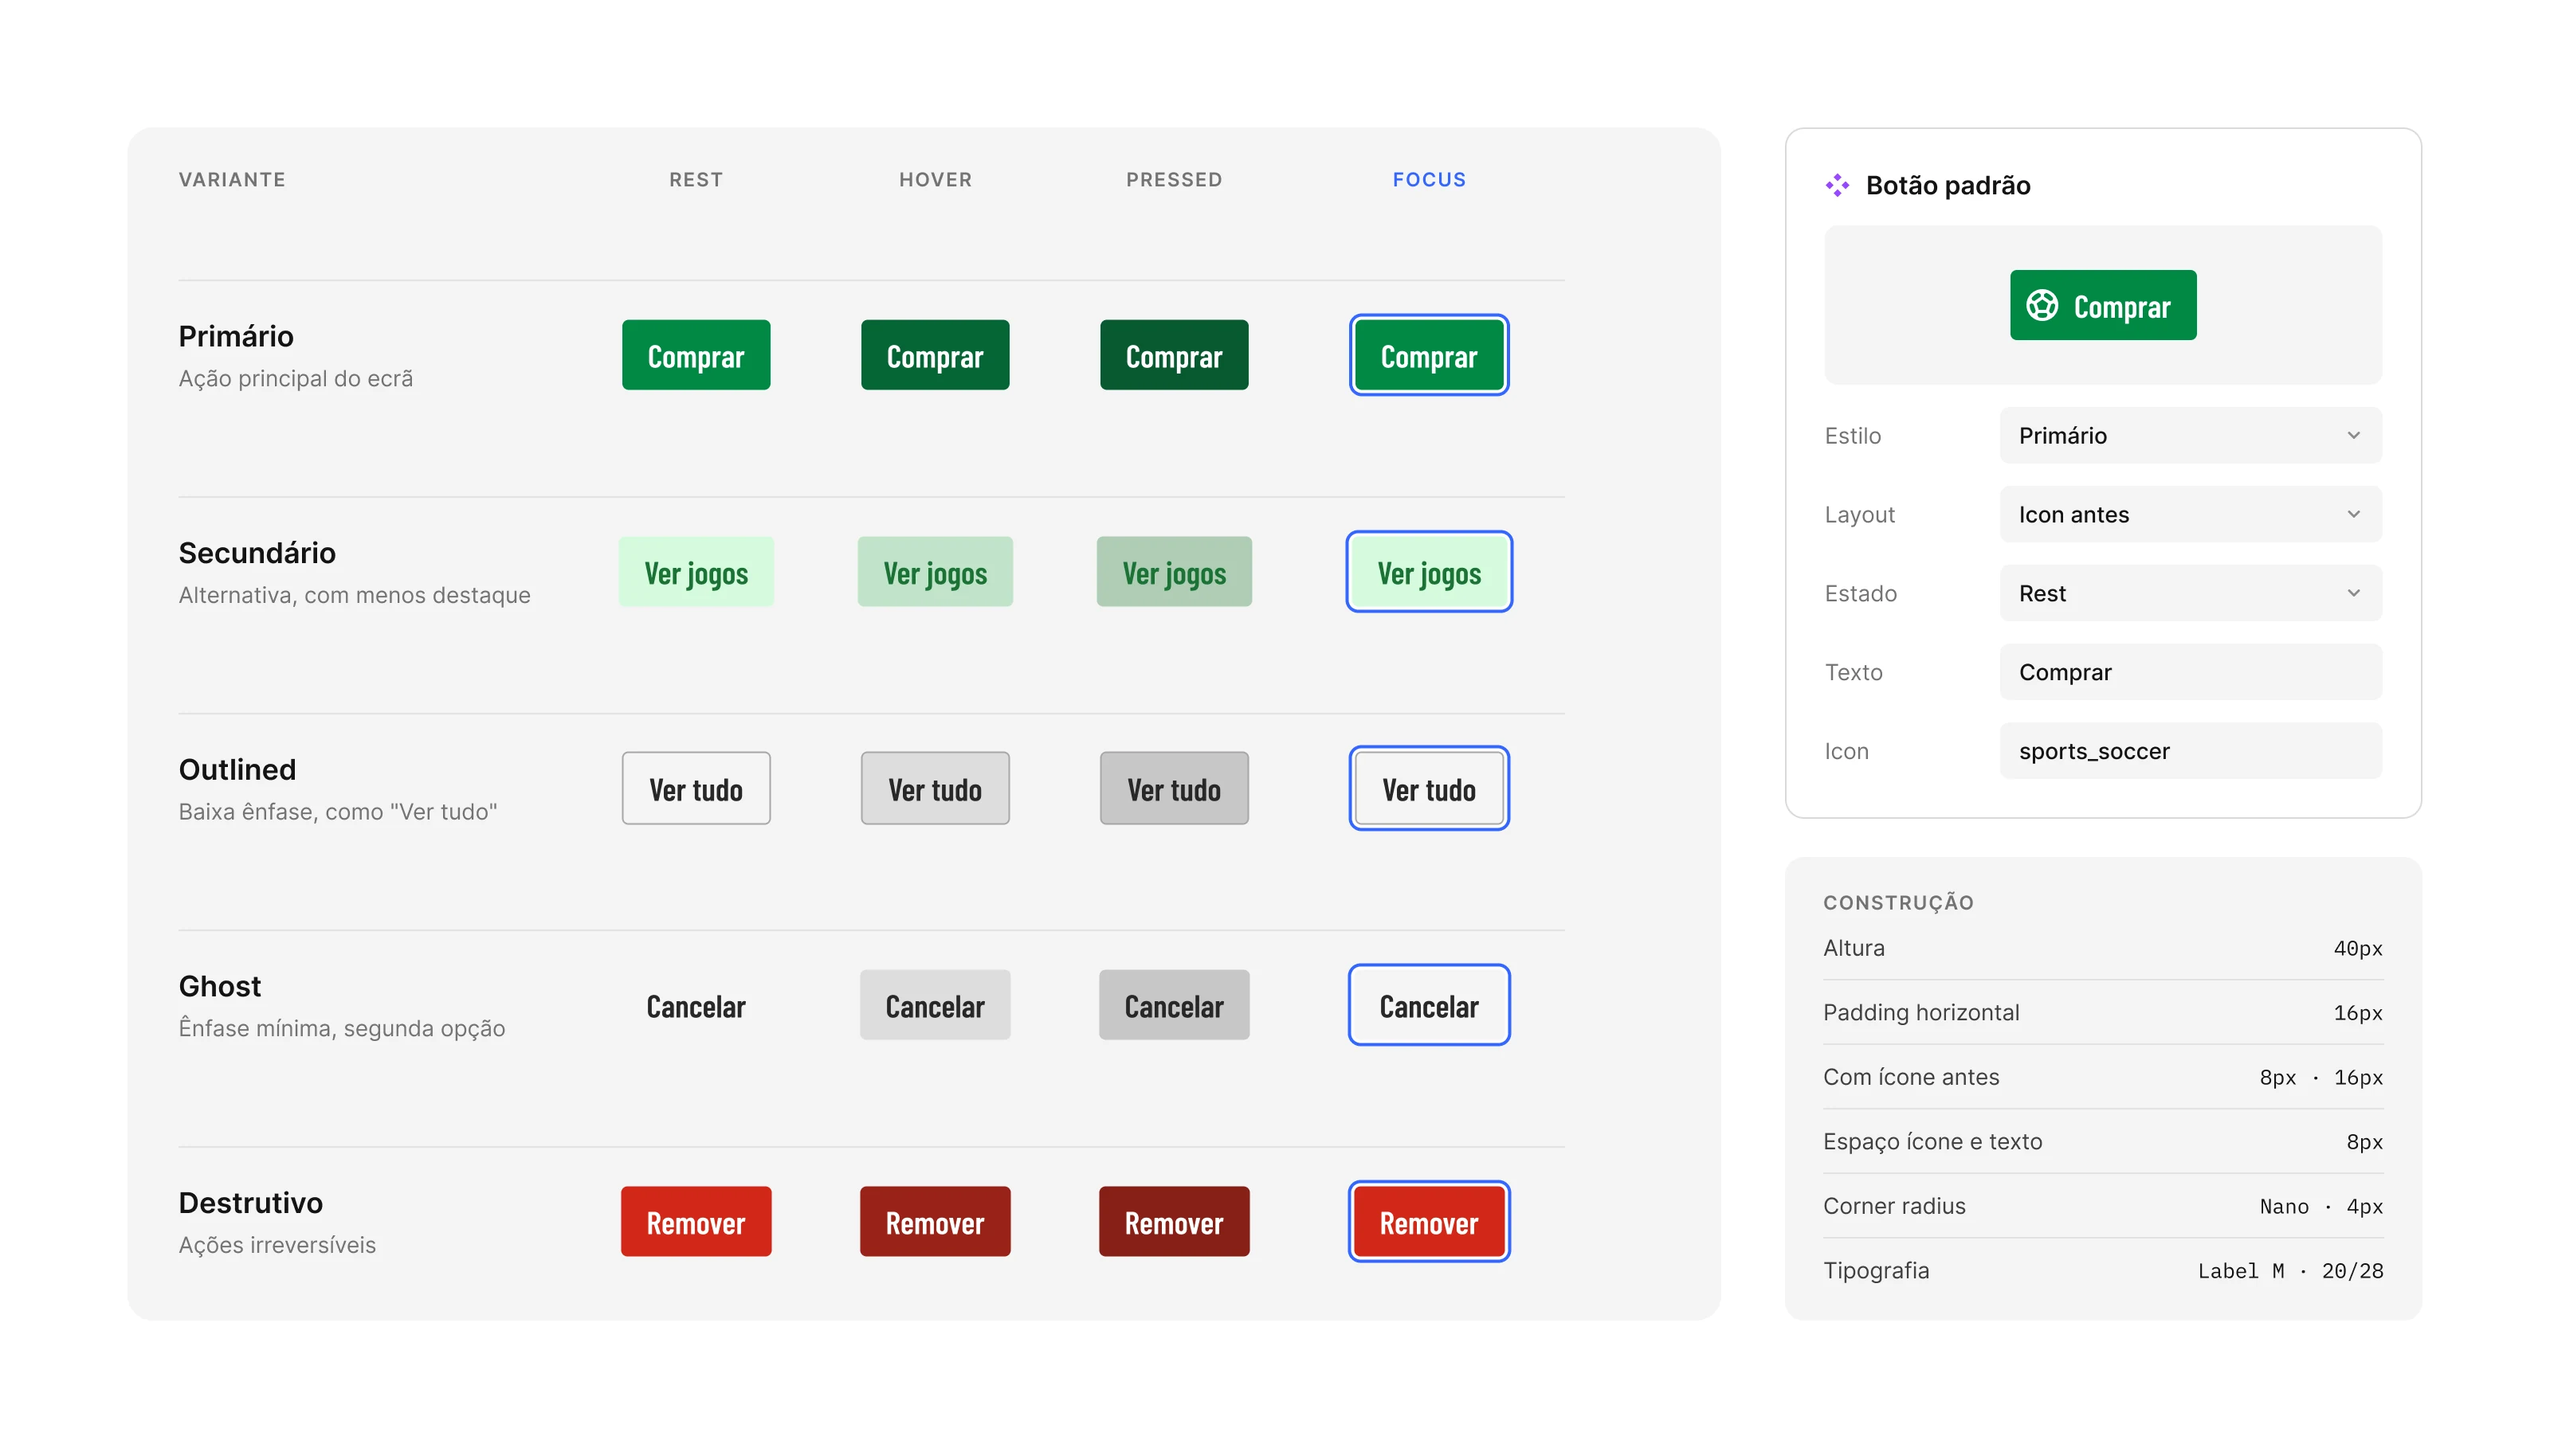
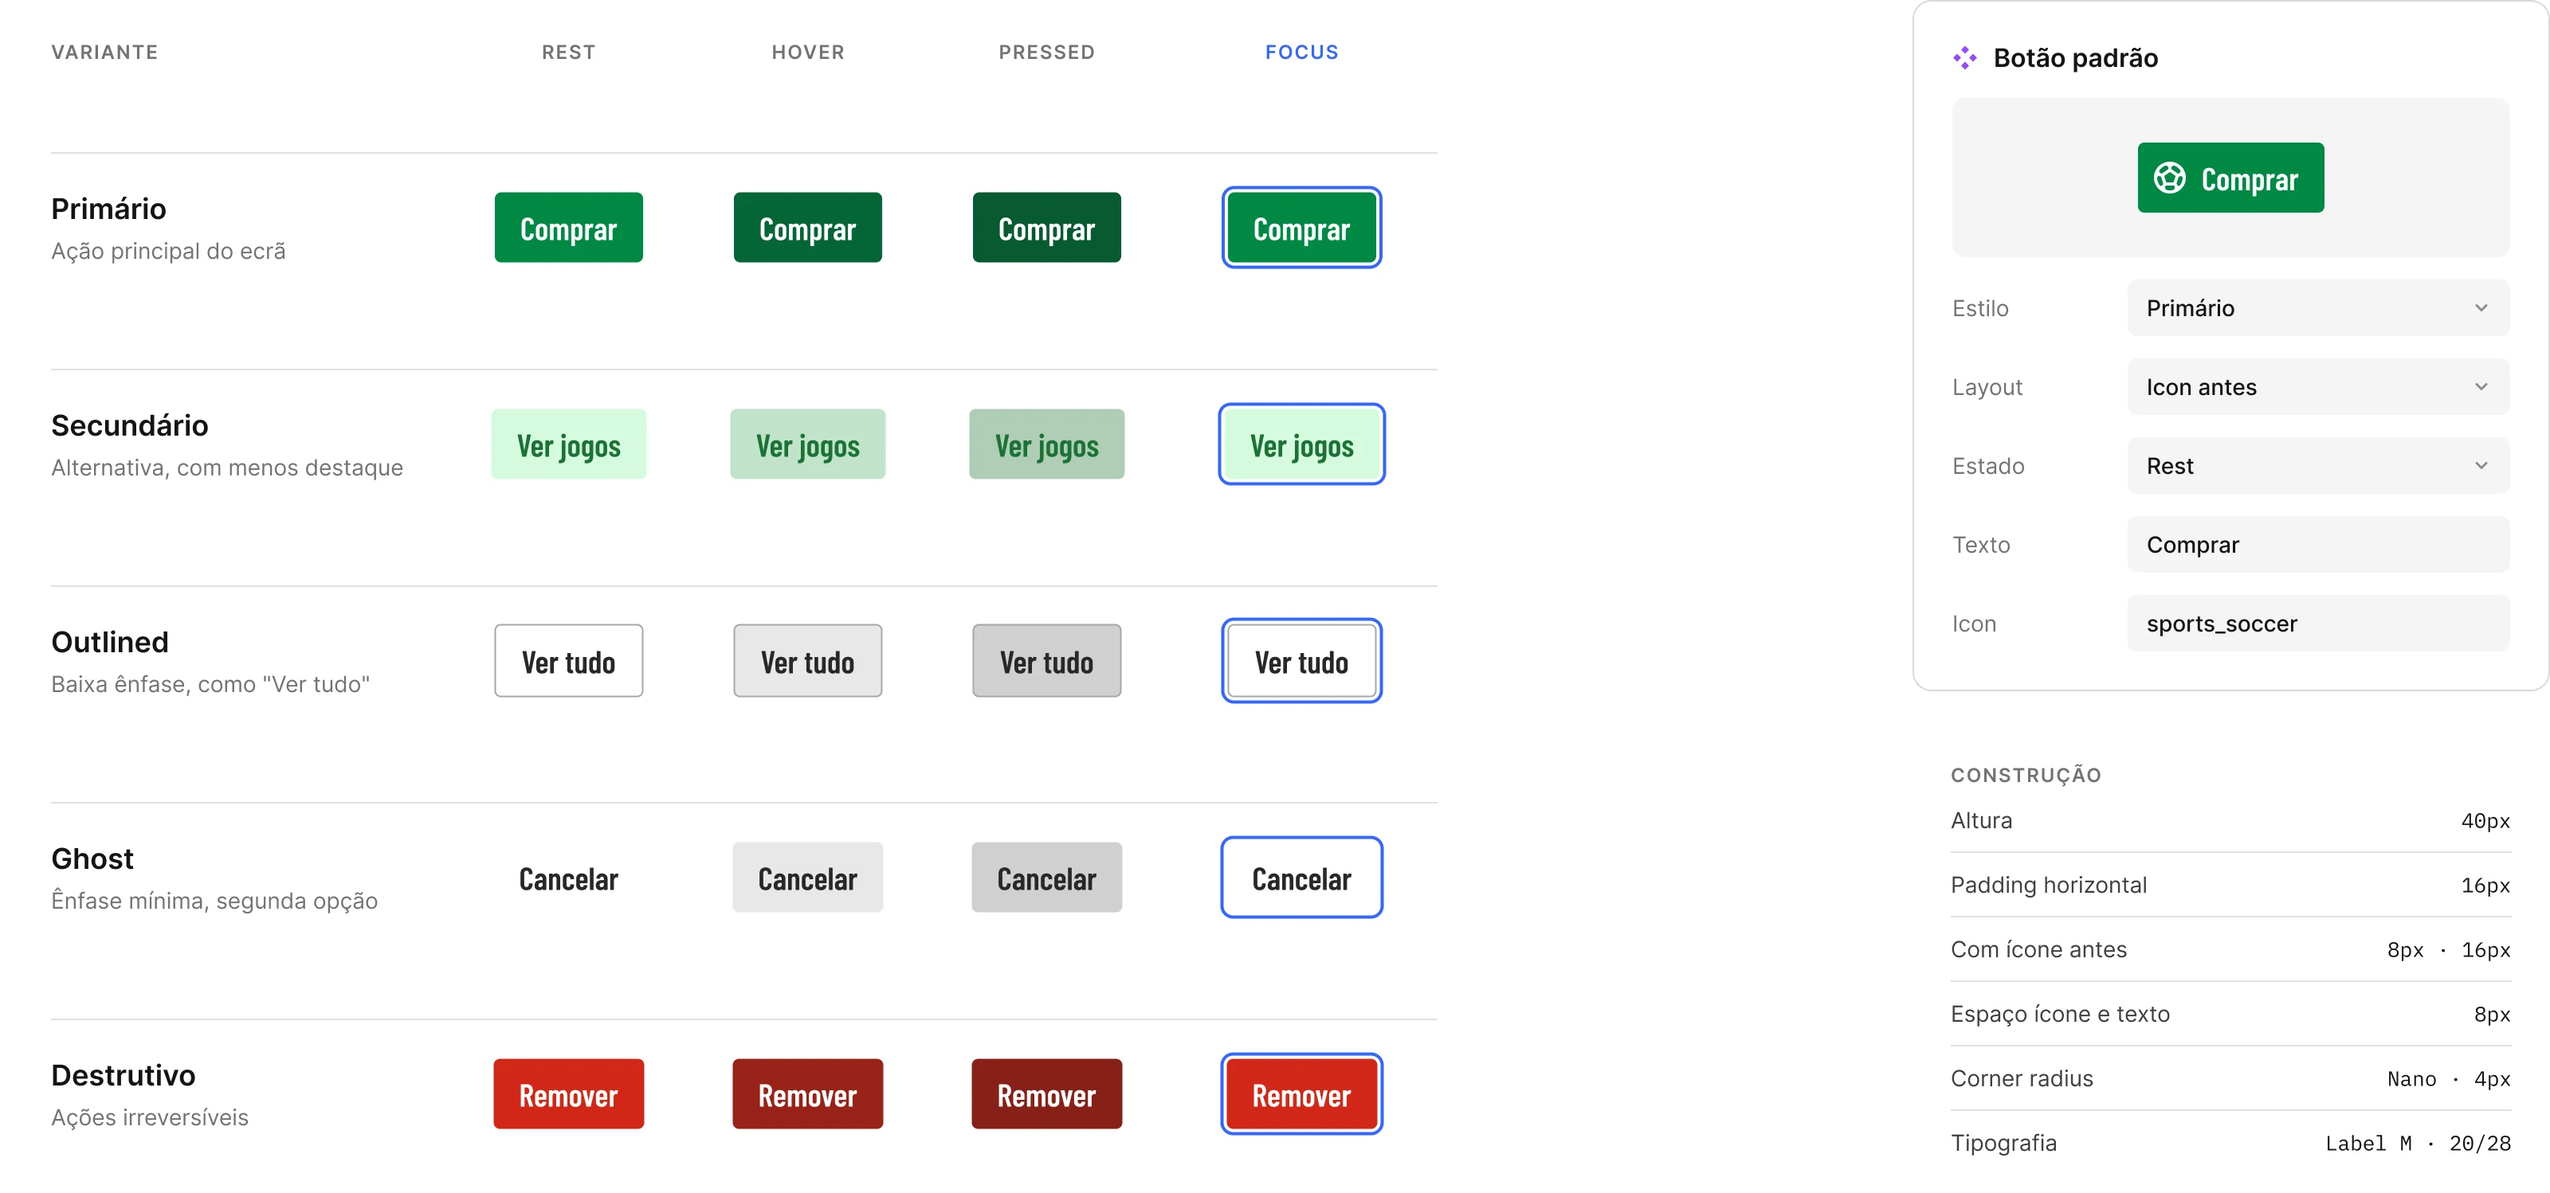
Case study FPF: visuais sem fundo branco, com os elementos diretamente na página
Claude-Session: https://claude.ai/code/session_0125m1rgYWwECSxchRXUAmcU

diff --git a/src/components/CaseStudy/style.module.scss b/src/components/CaseStudy/style.module.scss
@@ -231,9 +231,6 @@ $ease: cubic-bezier(0.76, 0, 0.24, 1);
   display: block;
   width: 100%;
   height: auto;
-  border-radius: 12px;
-  border: 1px solid $line;
-  background: #fff;
 }
 .frame {
   position: relative;
@@ -302,7 +299,6 @@ $ease: cubic-bezier(0.76, 0, 0.24, 1);
   .prose { font-size: 17px; }
   .figure { margin-top: 40px; }
   .continued { margin-top: 40px; }
-  .image { border-radius: 8px; }
   .next { margin-top: 120px; padding: 80px 20px 30px; }
   .nextLink { flex-direction: column; gap: 10px; }
   .nextFoot { flex-direction: column; align-items: flex-start; gap: 30px; }

diff --git a/content/01-design-system-fpf.md b/content/01-design-system-fpf.md
@@ -22,7 +22,7 @@ O desafio era criar um Design System capaz de unificar estas experiências, redu
 
 Enquanto UX/UI Designer, participei na investigação inicial e fui responsável pelo **desenho dos componentes, organização dos Design Tokens e documentação da biblioteca em Figma**. Participei também nas apresentações ao cliente e, após a entrega, continuei a trabalhar na evolução do sistema durante mais um ano.
 
-![Os quatro produtos prioritários antes do Design System: Resultados, Bilheteira, site institucional e Portugal Store.](images/fpf/01-contexto.webp?v=2)
+![Os quatro produtos prioritários antes do Design System: Resultados, Bilheteira, site institucional e Portugal Store.](images/fpf/01-contexto.webp?v=3)
 
 ## Compreender antes de construir
 
@@ -30,7 +30,7 @@ Antes de desenhar, precisávamos de confirmar a necessidade do sistema. A equipa
 
 A análise identificou **27 componentes e 1.313 variações**, revelando inconsistências entre elementos com a mesma função.
 
-![Excerto do inventário: botões e cards de resultados com a mesma função e tratamentos diferentes.](images/fpf/02-inventario.webp?v=2)
+![Excerto do inventário: botões e cards de resultados com a mesma função e tratamentos diferentes.](images/fpf/02-inventario.webp?v=3)
 
 Em vez de tentar abranger todo o ecossistema, definimos quatro plataformas prioritárias: Resultados, Bilheteira, site institucional e Portugal Store.
 
@@ -42,19 +42,19 @@ Com a investigação concluída, fui responsável por transformar os elementos i
 
 Comecei por estruturar os **Design Tokens**, centralizando cores, tipografia, espaçamentos e raios. Esta organização permitiu estabelecer referências partilhadas e simplificar futuras alterações.
 
-![As variáveis em duas coleções, Primitives e Tokens, com quatro modos. O mesmo token, Colour/Action/high, alimenta o botão e o toggle em modo claro e escuro.](images/fpf/03-tokens.webp?v=2)
+![As variáveis em duas coleções, Primitives e Tokens, com quatro modos. O mesmo token, Colour/Action/high, alimenta o botão e o toggle em modo claro e escuro.](images/fpf/03-tokens.webp?v=3)
 
 Os componentes foram organizados com variantes, propriedades e estados de interação. No caso dos botões, por exemplo, definimos cinco níveis de destaque: Primário, Secundário, Outlined, Ghost e Destrutivo.
 
-![O botão: cinco níveis de destaque nos estados Rest, Hover, Pressed e Focus, com as propriedades do componente e as medidas de construção.](images/fpf/04-botao.webp?v=2)
+![O botão: cinco níveis de destaque nos estados Rest, Hover, Pressed e Focus, com as propriedades do componente e as medidas de construção.](images/fpf/04-botao.webp?v=3)
 
 A acessibilidade também fez parte do processo, utilizando as WCAG 2.1 como referência. Um exemplo foi a definição de um estado de foco com a cor `#3366FF` e um contorno branco para melhorar a visibilidade em diferentes fundos.
 
-![O estado de foco num fundo claro e num fundo escuro. Nos dois fundos em que o azul não chega ao contraste mínimo, o contorno branco garante a visibilidade.](images/fpf/05-foco.webp?v=2)
+![O estado de foco num fundo claro e num fundo escuro. Nos dois fundos em que o azul não chega ao contraste mínimo, o contorno branco garante a visibilidade.](images/fpf/05-foco.webp?v=3)
 
 Para facilitar a utilização, organizámos a biblioteca num único ficheiro Figma, com documentação individual dos componentes, regras de utilização, Design Tokens e Changelog.
 
-![A estrutura de páginas do ficheiro e duas páginas reais da documentação do botão.](images/fpf/06-documentacao.webp?v=2)
+![A estrutura de páginas do ficheiro e duas páginas reais da documentação do botão.](images/fpf/06-documentacao.webp?v=3)
 
 ## Da biblioteca aos produtos reais
 
@@ -64,7 +64,7 @@ Dos quatro produtos iniciais, **dois alcançaram adoção completa**, o site ins
 
 Os novos projetos passaram a utilizar o Design System desde o início.
 
-![Componentes partilhados no site Resultados e no site institucional.](images/fpf/07-aplicacao.webp?v=2)
+![Componentes partilhados no site Resultados e no site institucional.](images/fpf/07-aplicacao.webp?v=3)
 
 Durante o ano seguinte, continuei a acompanhar a manutenção e evolução da biblioteca, respondendo a novas necessidades através de tickets, incluindo componentes de tabelas para a plataforma Score.
 
@@ -78,7 +78,7 @@ O projeto estabeleceu uma linguagem visual partilhada e uma base reutilizável p
 - 100% dos novos projetos a utilizar o Design System, segundo os resultados acompanhados.
 - 12 meses adicionais de manutenção e evolução.
 
-![Adoção ao fim dos seis meses, separando adoção completa de adoção parcial.](images/fpf/08-resultados.webp?v=2)
+![Adoção ao fim dos seis meses, separando adoção completa de adoção parcial.](images/fpf/08-resultados.webp?v=3)
 
 A maior aprendizagem foi perceber que **o sucesso de um Design System depende tanto da sua construção como da sua adoção**.
 
